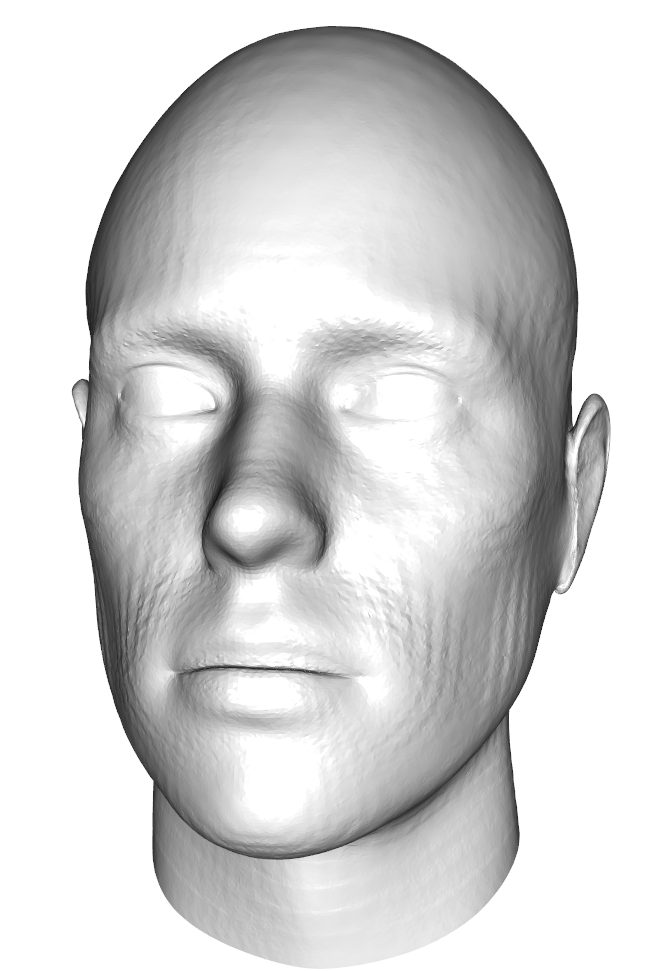
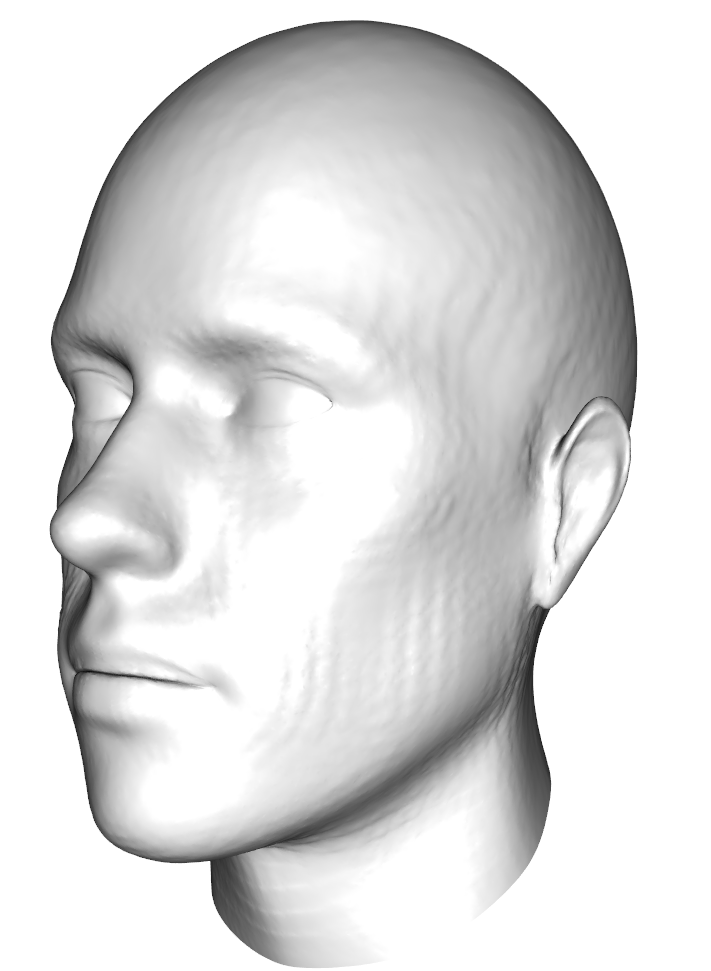
more typos and images updated

diff --git a/_posts/2016-03-01-displacementfieldsupdate.md b/_posts/2016-03-01-displacementfieldsupdate.md
@@ -54,8 +54,8 @@ dummytrans <- applyTransform(dummyhead.mesh,rigidtrans)
 ## create the lowres displacement field
 dispfield <- createDisplacementField(dummytrans,map$mesh)
 
-## create a highres version of the rotated/scaled reference
-highres <- vcgSubdivide(dummytrans,type="l",threshold = 1.5)
+## create a smooth highres version of the rotated/scaled reference
+highres <- vcgSmooth(vcgSubdivide(dummytrans,type="l",threshold = 1.5))
 
 ## interpolate displacement field
 highresdispfield <- interpolateDisplacementField(dispfield,highres,k=10,sigma=10,threads = parallel::detectCores())
@@ -65,7 +65,7 @@ shade3d(highres_displaced,col="white") ##Fig. 1
 ## as the result is not really smooth, we smooth the displacement field
 highresdispfield_smooth <- smoothDisplacementField(highresdispfield,k=100,sigma = 100,threads = parallel::detectCores())
 highres_displaced_smooth <- applyDisplacementField(highresdispfield_smooth,highres)
-shade3d(highres_displaced,col="white") ##Fig. 2
+shade3d(highres_displaced_smooth,col="white") ##Fig. 2
 
 
 ## finally we plot the smoohted displacement field
